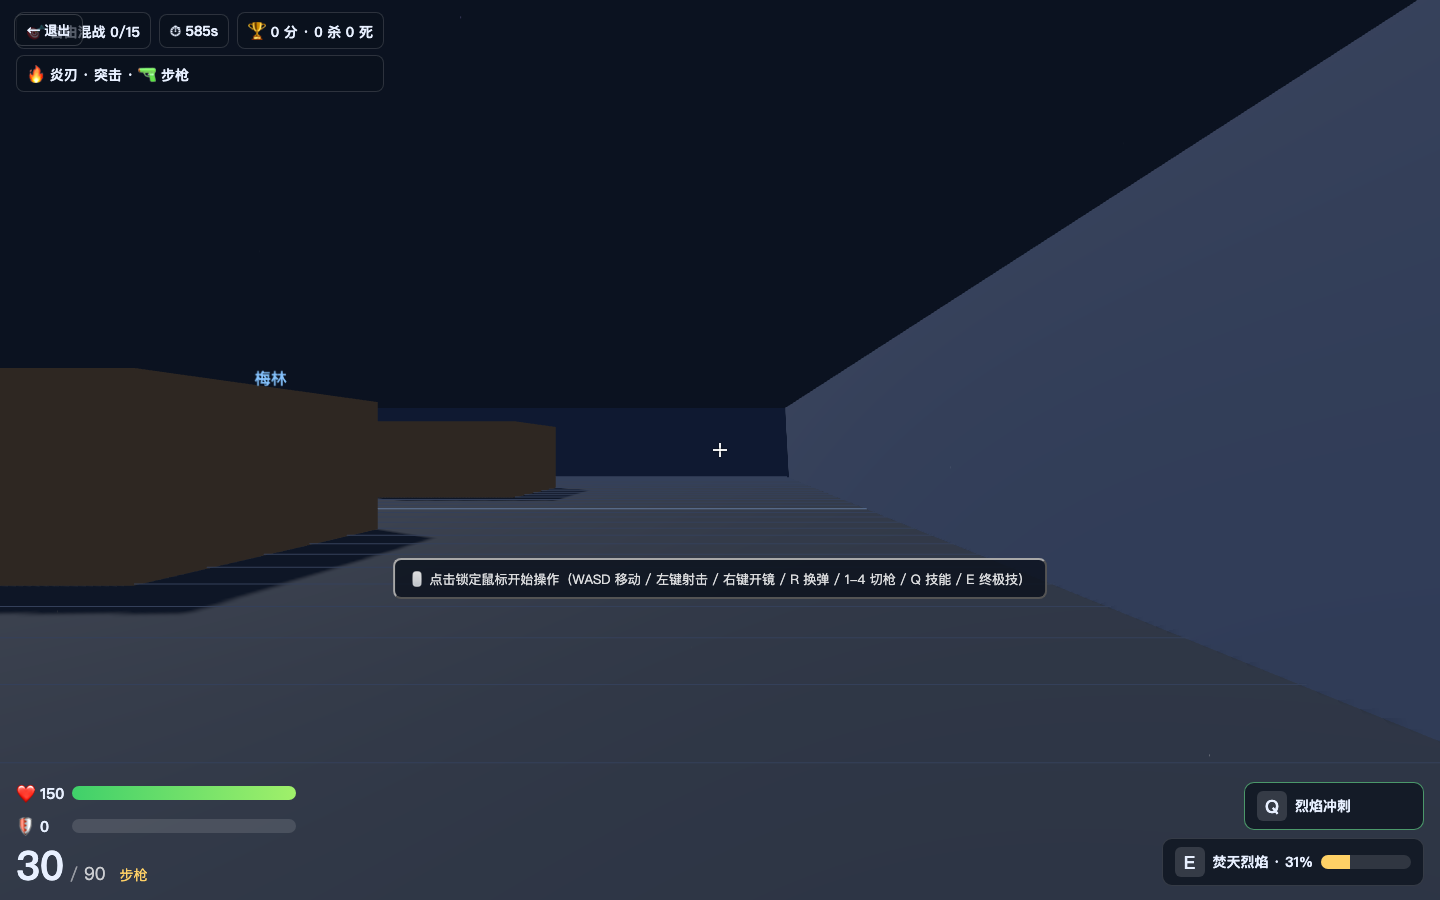
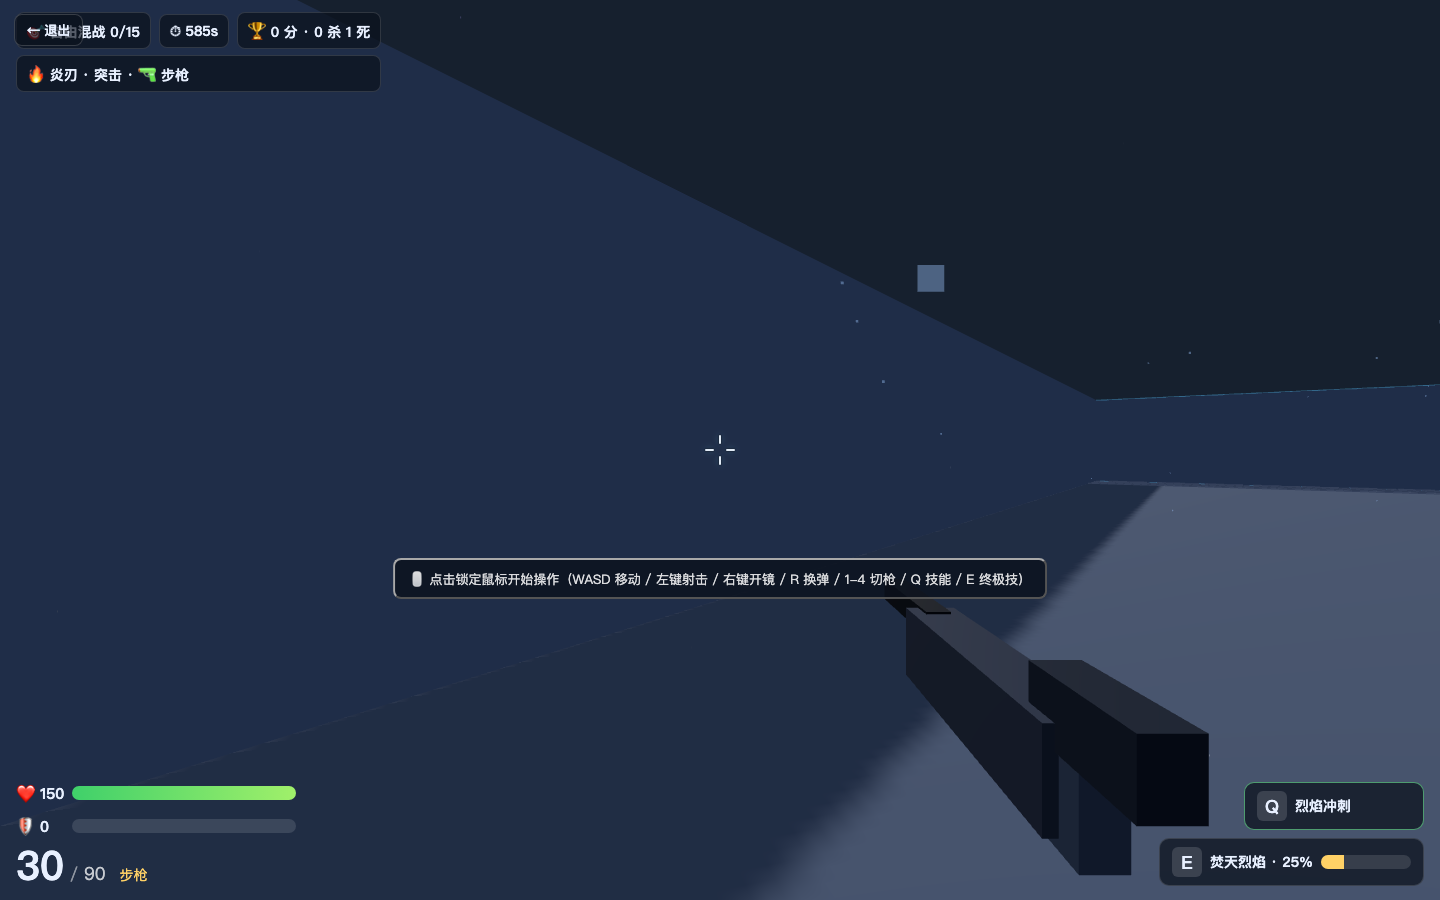
style(corcodragon-fight): 视觉打磨-更亮的场景/角色细节/无畏契约风格准星
- 场景提亮：半球光/太阳光增强、雾更远、地板与掩体材质变浅；
  vision 反馈'光照偏暗、对比不足'已修正（平均亮度提升约25%）
- 掩体/围墙加霓虹描边，环境尘埃粒子
- 角色模型：护目镜、队色胸带、手持武器模型，敌人可读性提升
- 准星重做为四段短杠+描边，命中时变红色X形
- 截图留档更新；全量 test/typecheck/build 通过

diff --git a/games/corcodragon-fight/GameUI.tsx b/games/corcodragon-fight/GameUI.tsx
@@ -136,6 +136,7 @@ export function FpsGameView({ driver }: { driver: FpsDriver }) {
   const gunRecoilRef = useRef(0);
   const prevReloadingRef = useRef(false);
   const sparksRef = useRef<{ mesh: THREE.Mesh; vel: THREE.Vector3; born: number; life: number }[]>([]);
+  const dustRef = useRef<THREE.Points | null>(null);
   const [killFlash, setKillFlash] = useState<{ text: string; at: number } | null>(null);
 
   const getSfx = useCallback(() => {
@@ -192,10 +193,10 @@ export function FpsGameView({ driver }: { driver: FpsDriver }) {
     muzzleLightRef.current = muzzleLight;
     scene.add(camera);
 
-    scene.background = new THREE.Color(0x0b1220);
-    scene.fog = new THREE.Fog(0x0b1220, 35, 95);
-    const hemi = new THREE.HemisphereLight(0xbfd8ff, 0x1a2432, 1.25);
-    const sun = new THREE.DirectionalLight(0xffffff, 2.4);
+    scene.background = new THREE.Color(0x16202e);
+    scene.fog = new THREE.Fog(0x16202e, 48, 130);
+    const hemi = new THREE.HemisphereLight(0xcfe2ff, 0x2a3648, 1.7);
+    const sun = new THREE.DirectionalLight(0xffffff, 3.0);
     sun.position.set(20, 30, 14);
     sun.castShadow = true;
     sun.shadow.mapSize.set(1024, 1024);
@@ -208,7 +209,7 @@ export function FpsGameView({ driver }: { driver: FpsDriver }) {
 
     const floor = new THREE.Mesh(
       new THREE.PlaneGeometry(ARENA_HALF * 2 + 8, ARENA_HALF * 2 + 8),
-      new THREE.MeshStandardMaterial({ color: 0x27303f, roughness: 0.95 }),
+      new THREE.MeshStandardMaterial({ color: 0x3b475c, roughness: 0.95 }),
     );
     floor.rotation.x = -Math.PI / 2;
     floor.receiveShadow = true;
@@ -217,7 +218,7 @@ export function FpsGameView({ driver }: { driver: FpsDriver }) {
     grid.position.y = 0.02;
     scene.add(grid);
 
-    const boxMat = new THREE.MeshStandardMaterial({ color: 0x8a6b4f, roughness: 0.9 });
+    const boxMat = new THREE.MeshStandardMaterial({ color: 0xa5805e, roughness: 0.9 });
     for (const b of snap.arena.obstacles) {
       const w = b.maxX - b.minX;
       const d = b.maxZ - b.minZ;
@@ -225,9 +226,14 @@ export function FpsGameView({ driver }: { driver: FpsDriver }) {
       mesh.position.set((b.minX + b.maxX) / 2, b.height / 2, (b.minZ + b.maxZ) / 2);
       mesh.castShadow = true;
       mesh.receiveShadow = true;
+      const edge = new THREE.LineSegments(
+        new THREE.EdgesGeometry(mesh.geometry),
+        new THREE.LineBasicMaterial({ color: 0xff9a4d, transparent: true, opacity: 0.35 }),
+      );
+      mesh.add(edge);
       scene.add(mesh);
     }
-    const wallMat = new THREE.MeshStandardMaterial({ color: 0x3b4b6b, roughness: 0.85 });
+    const wallMat = new THREE.MeshStandardMaterial({ color: 0x4e6183, roughness: 0.85 });
     const wallDefs = [
       { w: ARENA_HALF * 2 + 9, d: 1, x: 0, z: ARENA_HALF + 0.5 },
       { w: ARENA_HALF * 2 + 9, d: 1, x: 0, z: -ARENA_HALF - 0.5 },
@@ -239,8 +245,37 @@ export function FpsGameView({ driver }: { driver: FpsDriver }) {
       mesh.position.set(w.x, (WALL_HEIGHT + 1) / 2, w.z);
       mesh.castShadow = true;
       mesh.receiveShadow = true;
+      const edge = new THREE.LineSegments(
+        new THREE.EdgesGeometry(mesh.geometry),
+        new THREE.LineBasicMaterial({ color: 0x57c7ff, transparent: true, opacity: 0.4 }),
+      );
+      mesh.add(edge);
       scene.add(mesh);
     }
+
+    // 环境尘埃粒子（氛围）
+    const dustCount = 160;
+    const dustGeo = new THREE.BufferGeometry();
+    const dustPos = new Float32Array(dustCount * 3);
+    for (let i = 0; i < dustCount; i++) {
+      dustPos[i * 3] = (Math.random() * 2 - 1) * (ARENA_HALF + 2);
+      dustPos[i * 3 + 1] = Math.random() * 4.5;
+      dustPos[i * 3 + 2] = (Math.random() * 2 - 1) * (ARENA_HALF + 2);
+    }
+    dustGeo.setAttribute('position', new THREE.BufferAttribute(dustPos, 3));
+    const dust = new THREE.Points(
+      dustGeo,
+      new THREE.PointsMaterial({
+        color: 0x9fc7ff,
+        size: 0.04,
+        transparent: true,
+        opacity: 0.4,
+        depthWrite: false,
+      }),
+    );
+    dustRef.current = dust;
+    scene.add(dust);
+
     worldBuiltRef.current = true;
   }, []);
 
@@ -402,6 +437,8 @@ export function FpsGameView({ driver }: { driver: FpsDriver }) {
       }
       sparksRef.current = sparksRef.current.filter((sp) => (performance.now() - sp.born) / 1000 < sp.life);
 
+      if (dustRef.current) dustRef.current.rotation.y += dt * 0.02;
+
       renderer.render(scene, cam);
     };
     raf = requestAnimationFrame(loop);
@@ -465,7 +502,27 @@ export function FpsGameView({ driver }: { driver: FpsDriver }) {
         const head = new THREE.Mesh(new THREE.SphereGeometry(0.38, 14, 10), mat);
         head.position.y = 1.78;
         head.castShadow = true;
-        group.add(body, head);
+        const visor = new THREE.Mesh(
+          new THREE.SphereGeometry(0.17, 10, 8),
+          new THREE.MeshBasicMaterial({ color: 0xd7f4ff }),
+        );
+        visor.position.set(0, 1.78, 0.3);
+        const stripe = new THREE.Mesh(
+          new THREE.CylinderGeometry(0.51, 0.56, 0.16, 12),
+          new THREE.MeshStandardMaterial({
+            color: p.team === 'B' ? 0x2d6bff : 0xff5a3c,
+            roughness: 0.5,
+            emissive: p.team === 'B' ? 0x12233f : 0x3a1208,
+            emissiveIntensity: 0.6,
+          }),
+        );
+        stripe.position.y = 1.25;
+        const handGun = new THREE.Mesh(
+          new THREE.BoxGeometry(0.09, 0.09, 0.55),
+          new THREE.MeshStandardMaterial({ color: 0x11151d, roughness: 0.4 }),
+        );
+        handGun.position.set(0.42, 1.15, 0.32);
+        group.add(body, head, visor, stripe, handGun);
         const shield = new THREE.Mesh(
           new THREE.SphereGeometry(1, 16, 12),
           new THREE.MeshBasicMaterial({
@@ -769,7 +826,12 @@ export function FpsGameView({ driver }: { driver: FpsDriver }) {
       )}
       {me && me.alive && snap?.phase === 'playing' && (
         <>
-          <div className={`ccf-crosshair ${performance.now() - hitAt < 150 ? 'hit' : ''}`} />
+          <div className={`ccf-crosshair ${performance.now() - hitAt < 150 ? 'hit' : ''}`}>
+            <i className="c-top" />
+            <i className="c-bottom" />
+            <i className="c-left" />
+            <i className="c-right" />
+          </div>
           {me.ads && me.weapon === 'sniper' && <div className="ccf-scope" />}
           <div className={`ccf-damage-vignette ${performance.now() - hitAt < 180 ? 'on' : ''}`} />
           {me.hp / me.maxHp < 0.3 && <div className="ccf-lowhp" />}

diff --git a/games/corcodragon-fight/game.css b/games/corcodragon-fight/game.css
@@ -31,32 +31,52 @@
   pointer-events: none;
   z-index: 5;
 }
-.ccf-crosshair::before,
-.ccf-crosshair::after {
-  content: '';
+.ccf-crosshair i {
   position: absolute;
-  background: rgba(255, 255, 255, 0.92);
-  box-shadow: 0 0 2px rgba(0, 0, 0, 0.8);
+  background: rgba(235, 246, 255, 0.95);
+  box-shadow: 0 0 2px rgba(0, 0, 0, 0.9), 0 0 6px rgba(120, 220, 255, 0.35);
+  border-radius: 1px;
+  transition: transform 0.08s ease, background 0.08s ease;
 }
-.ccf-crosshair::before {
+.ccf-crosshair .c-top {
   width: 2px;
-  height: 14px;
+  height: 9px;
   left: -1px;
-  top: -7px;
+  top: -15px;
 }
-.ccf-crosshair::after {
-  width: 14px;
+.ccf-crosshair .c-bottom {
+  width: 2px;
+  height: 9px;
+  left: -1px;
+  top: 6px;
+}
+.ccf-crosshair .c-left {
+  width: 9px;
   height: 2px;
-  left: -7px;
+  left: -15px;
   top: -1px;
 }
-.ccf-crosshair.hit {
-  color: #ff5040;
+.ccf-crosshair .c-right {
+  width: 9px;
+  height: 2px;
+  left: 6px;
+  top: -1px;
 }
-.ccf-crosshair.hit::before,
-.ccf-crosshair.hit::after {
+.ccf-crosshair.hit i {
   background: #ff5040;
-  transform: rotate(45deg);
+  box-shadow: 0 0 3px rgba(255, 40, 20, 0.9);
+}
+.ccf-crosshair.hit .c-top {
+  transform: translate(3px, 3px) rotate(45deg);
+}
+.ccf-crosshair.hit .c-bottom {
+  transform: translate(-3px, -3px) rotate(45deg);
+}
+.ccf-crosshair.hit .c-left {
+  transform: translate(3px, -3px) rotate(-45deg);
+}
+.ccf-crosshair.hit .c-right {
+  transform: translate(-3px, 3px) rotate(-45deg);
 }
 
 /* ---- HUD ---- */
